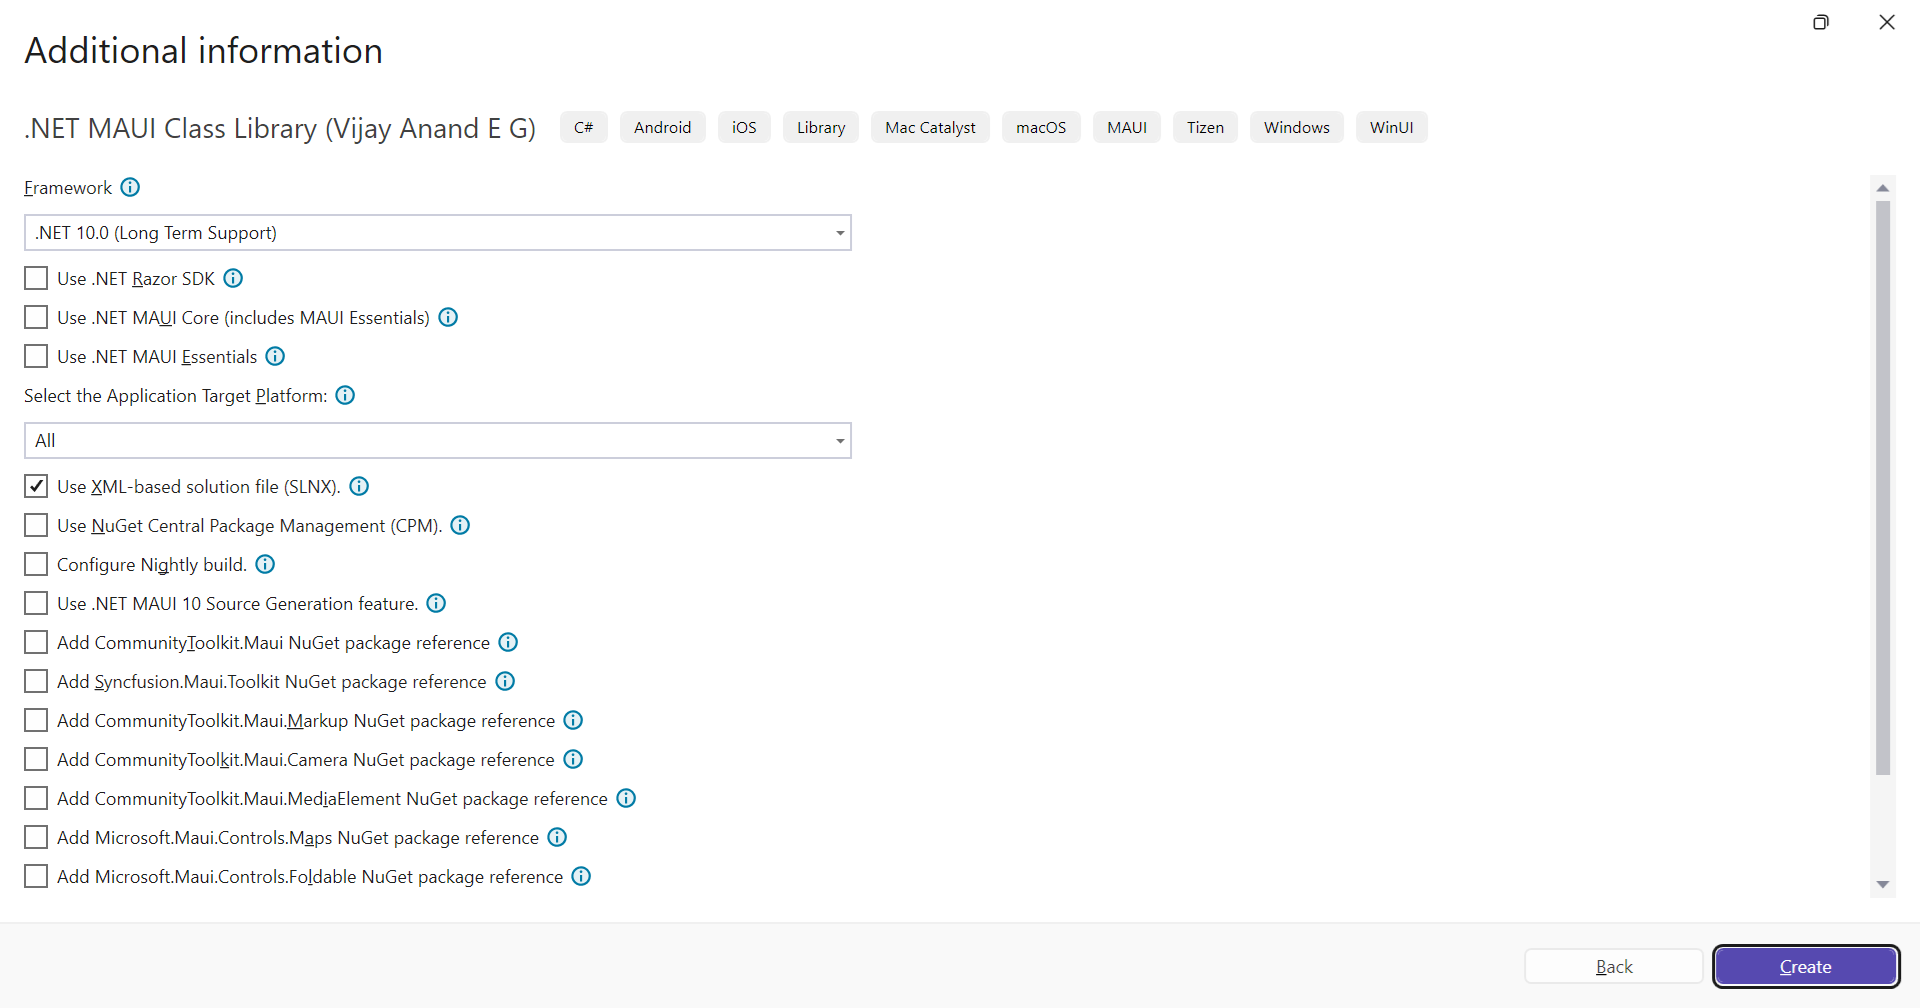
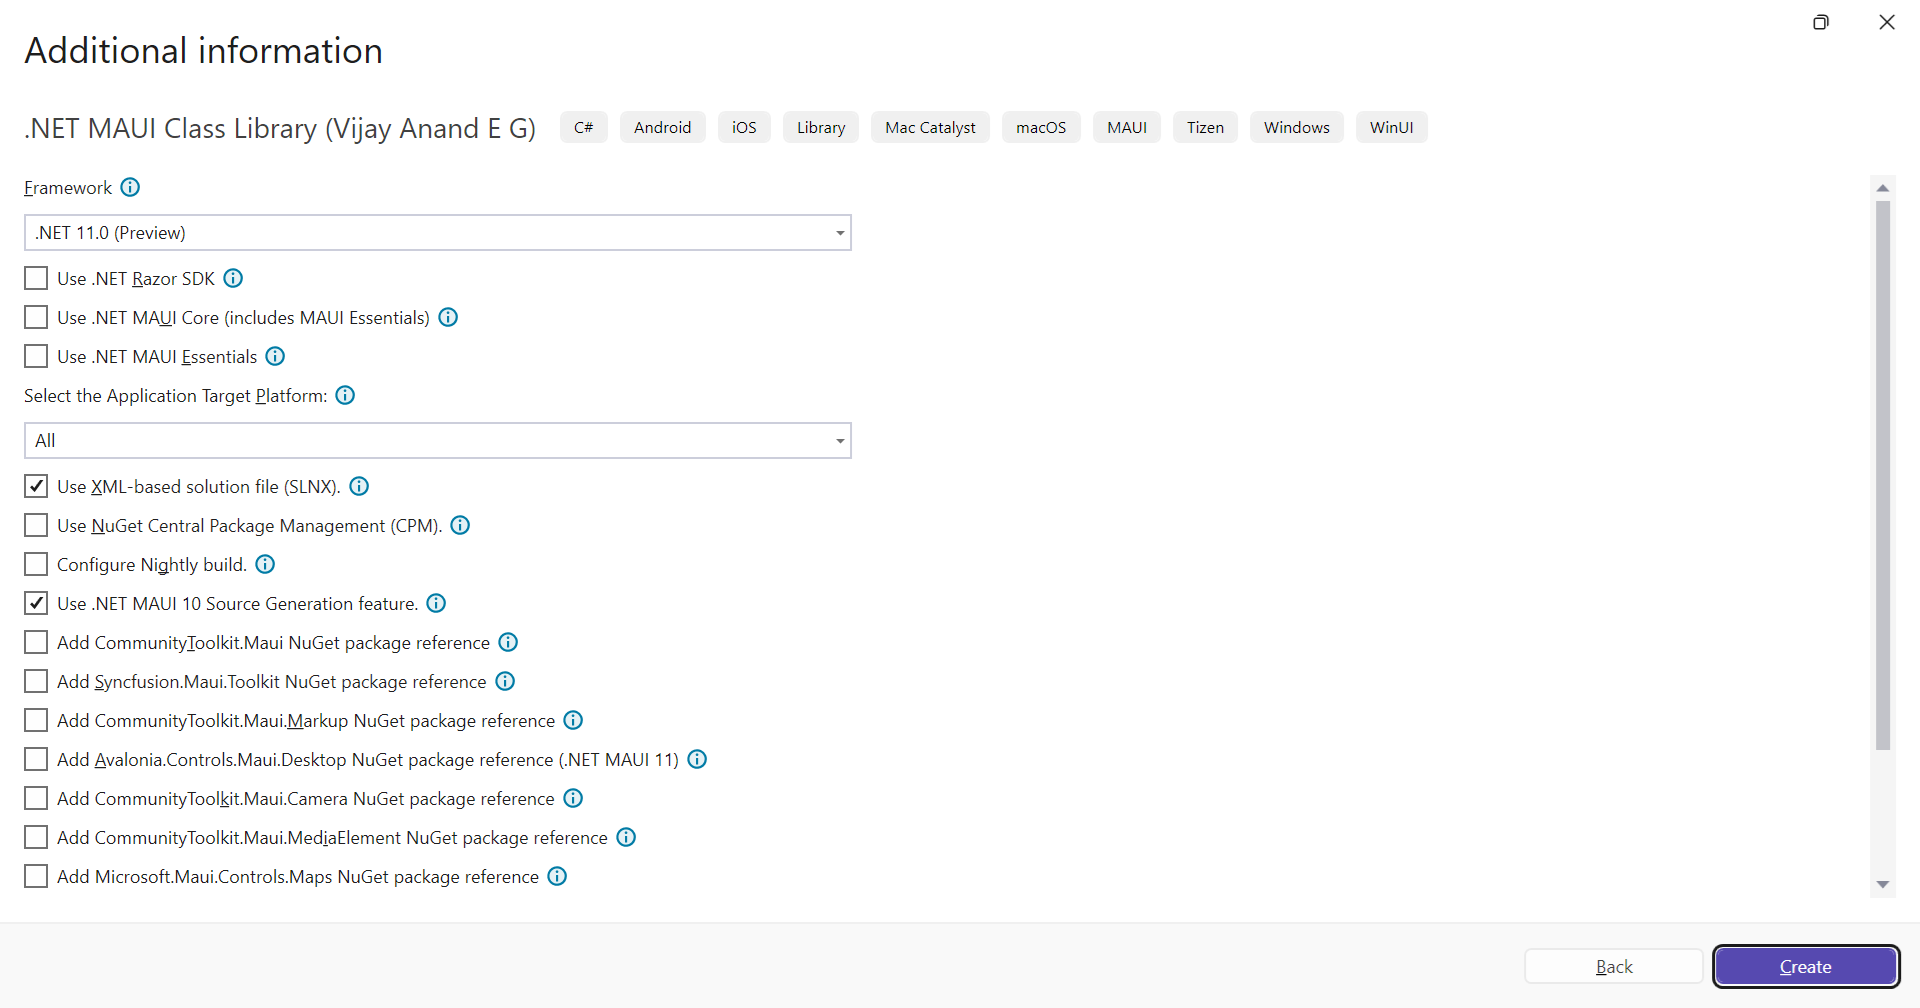
Docs updated #367 #368 #379

Changed region(s): [[0.0312, 0.7381, 0.375, 0.8919], [0.0625, 0.2153, 0.1562, 0.246], [0.9688, 0.7381, 1.0, 0.7688]]

diff --git a/src/MauiTemplatesCLI/overview.md b/src/MauiTemplatesCLI/overview.md
@@ -29,7 +29,7 @@ Item templates for the following:
 |ContentPage with BlazorWebView (C#)|maui-bwv-cs|
 |[Partial Class (C#)](#partial-class-item-template)|class-cs|
 
-All of these templates currently target `.NET MAUI 8 and 9 GA and its Service Releases`.
+All of these templates currently target `.NET MAUI 9, 10, and 11 Preview`.
 
 Install the template package from NuGet with the below command.
 
@@ -98,7 +98,39 @@ And from [v8.0.0](https://www.nuget.org/packages/VijayAnand.MauiTemplates/8.0.0)
 
 And from [v8.5.0](https://www.nuget.org/packages/VijayAnand.MauiTemplates/8.5.0) of the template package, support for .NET MAUI 10 XAML C# Expression feature.
 
+And from [v9.0.0](https://www.nuget.org/packages/VijayAnand.MauiTemplates/9.0.0) of the template package, the CLI project template `framework` parameter now includes `net11.0` as another option and also adds the `--avalonia` parameter, supporting .NET 11 Previews and the Avalonia backend for .NET MAUI. .NET MAUI 8 is no longer supported.
+
 ### Parameters:
+
+* [Avalonia backend for .NET MAUI](https://egvijayanand.in/2026/03/25/what-is-new-in-the-all-in-one-dotnet-maui-templates-pack-v9-0-hello-avalonia/):
+
+  Introduced an option to support the Avalonia backend for .NET MAUI.
+  
+  _This is supported only on .NET MAUI 11 Preview._
+
+  `--avalonia` - Default value is `false`.
+
+  This parameter is controlled by the framework, so it only works with .NET MAUI 11 Preview. Enabling it in earlier versions won’t have any effect.
+
+  Additional target platform values now include `Linux` and `Wasm` (Web Assembly).
+
+  ```shell
+  dotnet new mauiapp -o MyApp -f net11.0 -- avalonia
+  ```
+
+  To run the Web Assembly target, set the Browser project as the startup project.
+
+  For both the class library projects, the option to include the Avalonia NuGet package is as follows:
+  
+  `-ia` | `--include-avalonia` - The default value is `false`.
+
+  ```shell
+  dotnet new mauiclasslib -o MyLib -ia -f net11.0
+  ```
+
+  ```shell
+  dotnet new sharedclasslib -o SharedLib -ia -f net11.0
+  ```
 
 * XAML C# Expression:
 
@@ -162,7 +194,7 @@ And from [v8.5.0](https://www.nuget.org/packages/VijayAnand.MauiTemplates/8.5.0)
   dotnet new mauiapp -o MyApp -dp JSHybrid
   ```
 
-  *Note: The design pattern (`-dp`) parameter with the value `Hybrid` will continue to generate an App project using `BlazorWebView`, which works on both .NET MAUI 8 and 9, the present stable channel release.*
+  *Note: The design pattern (`-dp`) parameter with the value `Hybrid` will continue to generate an App project using `BlazorWebView`, which works on both .NET MAUI 9 and 10, the present stable channel release.*
 
   ```shell
   dotnet new mauiapp -o BlazorApp -dp Hybrid
@@ -283,24 +315,28 @@ And from [v8.5.0](https://www.nuget.org/packages/VijayAnand.MauiTemplates/8.5.0)
 
 * Framework: (Short notation: `-f`)
 
-  This can take `net8.0` / `net9.0` as its options (with `net9.0` being the default value, if not specified).
+  This can take `net9.0` / `net10.0` / `net11.0` as its options (with `net10.0` being the default value, if not specified).
 
   Examples:
 
   For creating a .NET MAUI 9 App:
 
-  Below command can be simplified to `dotnet new mauiapp` as default value of `framework` parameter is `net9.0`
+  Below command can be simplified to `dotnet new mauiapp` as default value of `framework` parameter is `net10.0`
+
+  ```shell
+  dotnet new mauiapp -f net10.0
+  ```
+
+  For creating a .NET MAUI 9 / 11 App:
+
+  _Explicit value for the `framework` parameter is required._
 
   ```shell
   dotnet new mauiapp -f net9.0
   ```
 
-  For creating a .NET MAUI 8 App:
-
-  _Explicit value for the `framework` parameter is required._
-
   ```shell
-  dotnet new mauiapp -f net8.0
+  dotnet new mauiapp -f net11.0
   ```
 
 In .NET CLI, all of these _Items Template_ require a mandatory parameter:
@@ -351,7 +387,7 @@ And now conditional compilation can be configured so that platform source files 
 For existing projects, add the below block of code in the project file (.csproj). _This will modify the behavior of build process so due care must be taken if doing so._
 
 ```xml
-<ItemGroup Condition="'$(TargetFramework)' != 'net9.0'">
+<ItemGroup Condition="'$(TargetFramework)' != 'net10.0'">
     <Compile Remove="**\*.Standard.cs" />
     <None Include="**\*.Standard.cs" Exclude="$(DefaultItemExcludes);$(DefaultExcludesInProjectFolder)" />
 </ItemGroup>
@@ -419,15 +455,17 @@ Can take a combination of the following values, with default value set to `All`:
 |Parameter Value|Description|
 |:---:|:---|
 |All|Targets all possible .NET MAUI supported platforms.|
-|Base|Targets base framework (.NET 8 or 9) based on the framework opted.|
+|Base|Targets base framework (.NET 9/10/11) based on the framework opted.|
 |Android|Targets Android platform.|
 |iOS|Targets iOS platform.|
+|Linux|Targets Linux platform (.NET MAUI 11 with Avalonia).|
 |macOS|Targets macOS platform via Mac Catalyst.|
 |Windows|Targets Windows platform.|
 |Tizen|Targets Tizen platform.|
 |Mobile|Targets Android and iOS platforms.|
-|Desktop|Targets Windows and macOS platforms.|
+|Desktop|Targets Windows, macOS, and Linux (.NET MAUI 11 only with Avalonia) platforms.|
 |Apple|Targets iOS and macOS platforms.|
+|Wasm (Web Assembly)|Targets Web Assembly (.NET MAUI 11 with Avalonia).|
 
 Additional parameters supported:
 

diff --git a/README.md b/README.md
@@ -56,7 +56,7 @@ If already installed, can be updated to the latest version with the below comman
 dotnet workload update
 ```
 
-Templates have been updated to support .NET MAUI 8, 9, and 10 (Preview) and is available to install from.
+Templates have been updated to support .NET MAUI 9, 10, and 11 (Preview) and is available to install from.
 
 |Channel|NuGet|VS Marketplace|
 |:---:|:---:|:---:|
@@ -237,7 +237,39 @@ And from [v8.0.0](https://www.nuget.org/packages/VijayAnand.MauiTemplates/8.0.0)
 
 And from [v8.5.0](https://www.nuget.org/packages/VijayAnand.MauiTemplates/8.5.0) of the template package, support for .NET MAUI 10 XAML C# Expression feature.
 
+And from [v9.0.0](https://www.nuget.org/packages/VijayAnand.MauiTemplates/9.0.0) of the template package, the CLI project template `framework` parameter now includes `net11.0` as another option and also adds the `--avalonia` parameter, supporting .NET 11 Previews and the Avalonia backend for .NET MAUI. .NET MAUI 8 is no longer supported.
+
 ### Parameters:
+
+* [Avalonia backend for .NET MAUI](https://egvijayanand.in/2026/03/25/what-is-new-in-the-all-in-one-dotnet-maui-templates-pack-v9-0-hello-avalonia/):
+
+  Introduced an option to support the Avalonia backend for .NET MAUI.
+  
+  _This is supported only on .NET MAUI 11 Preview._
+
+  `--avalonia` - Default value is `false`.
+
+  This parameter is controlled by the framework, so it only works with .NET MAUI 11 Preview. Enabling it in earlier versions won’t have any effect.
+
+  Additional target platform values now include `Linux` and `Wasm` (Web Assembly).
+
+  ```shell
+  dotnet new mauiapp -o MyApp -f net11.0 -- avalonia
+  ```
+
+  To run the Web Assembly target, set the Browser project as the startup project.
+
+  For both the class library projects, the option to include the Avalonia NuGet package is as follows:
+  
+  `-ia` | `--include-avalonia` - The default value is `false`.
+
+  ```shell
+  dotnet new mauiclasslib -o MyLib -ia -f net11.0
+  ```
+
+  ```shell
+  dotnet new sharedclasslib -o SharedLib -ia -f net11.0
+  ```
 
 * XAML C# Expression:
 
@@ -301,7 +333,7 @@ And from [v8.5.0](https://www.nuget.org/packages/VijayAnand.MauiTemplates/8.5.0)
   dotnet new mauiapp -o MyApp -dp JSHybrid
   ```
 
-  *Note: The design pattern (`-dp`) parameter with the value `Hybrid` will continue to generate an App project using `BlazorWebView`, which works on both .NET MAUI 8 and 9, the present stable channel release.*
+  *Note: The design pattern (`-dp`) parameter with the value `Hybrid` will continue to generate an App project using `BlazorWebView`, which works on both .NET MAUI 9 and 10, the present stable channel release.*
 
   ```shell
   dotnet new mauiapp -o BlazorApp -dp Hybrid
@@ -422,7 +454,7 @@ And from [v8.5.0](https://www.nuget.org/packages/VijayAnand.MauiTemplates/8.5.0)
 
 * Framework: (Short notation: `-f`)
 
-  This can take `net8.0` / `net9.0` / `net10.0` as its options (with `net10.0` being the default value, if not specified).
+  This can take `net9.0` / `net10.0` / `net11.0` as its options (with `net10.0` being the default value, if not specified).
 
   Examples:
 
@@ -432,16 +464,16 @@ And from [v8.5.0](https://www.nuget.org/packages/VijayAnand.MauiTemplates/8.5.0)
   dotnet new mauiapp
   ```
 
-  For creating a .NET MAUI 8/9 App:
+  For creating a .NET MAUI 9 / 11 App:
 
   _Explicit value for the `framework` parameter is required._
 
   ```shell
-  dotnet new mauiapp -f net8.0
+  dotnet new mauiapp -f net9.0
   ```
 
   ```shell
-  dotnet new mauiapp -f net9.0
+  dotnet new mauiapp -f net11.0
   ```
 
 In .NET CLI, all of these _Items Template_ require a mandatory parameter:
@@ -560,15 +592,17 @@ Can take a combination of the following values, with default value set to `All`:
 |Parameter Value|Description|
 |:---:|:---|
 |All|Targets all possible .NET MAUI supported platforms.|
-|Base|Base framework (.NET 8/9/10) based on the `framework` opted.|
+|Base|Base framework (.NET 9/10/11) based on the `framework` opted.|
 |Android|Targets Android platform.|
 |iOS|Targets iOS platform.|
+|Linux|Targets Linux platform (.NET MAUI 11 with Avalonia).|
 |macOS|Targets macOS platform via Mac Catalyst.|
 |Windows|Targets Windows platform.|
 |Tizen|Targets Tizen platform.|
 |Mobile|Targets Android and iOS platforms.|
-|Desktop|Targets Windows and macOS platforms.|
+|Desktop|Targets Windows, macOS, and Linux (.NET MAUI 11 only with Avalonia) platforms.|
 |Apple|Targets iOS and macOS platforms.|
+|Wasm (Web Assembly)|Targets Web Assembly (.NET MAUI 11 with Avalonia).|
 
 ![Target Platform Options - Visual Studio](images/dotnetmaui-all-in-one-app-project-options.png)
 
@@ -720,9 +754,10 @@ Optionally, it accept the following parameters:
 
 * Supported values are:
 
-  - `net10.0` (the default value)
-  - `net9.0`
   - `net8.0`
+  - `net9.0`
+  - `net10.0` (the default value)
+  - `net11.0`
 
 `SDK` parameter (`--sdk`):
 
